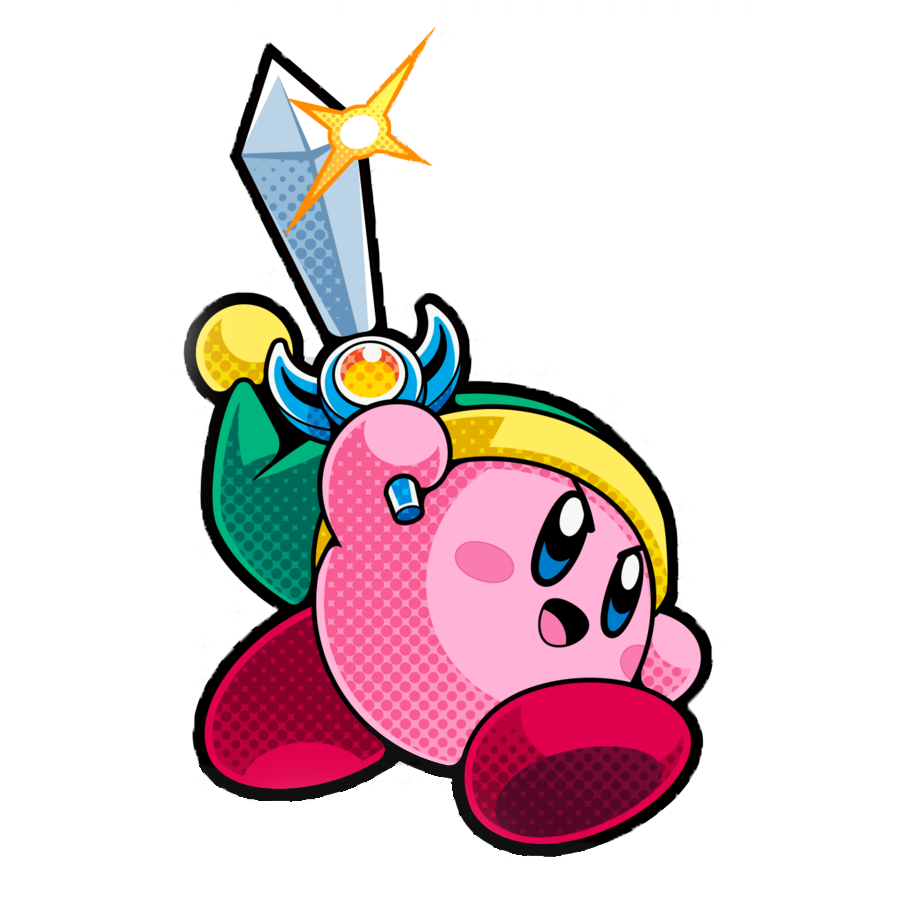
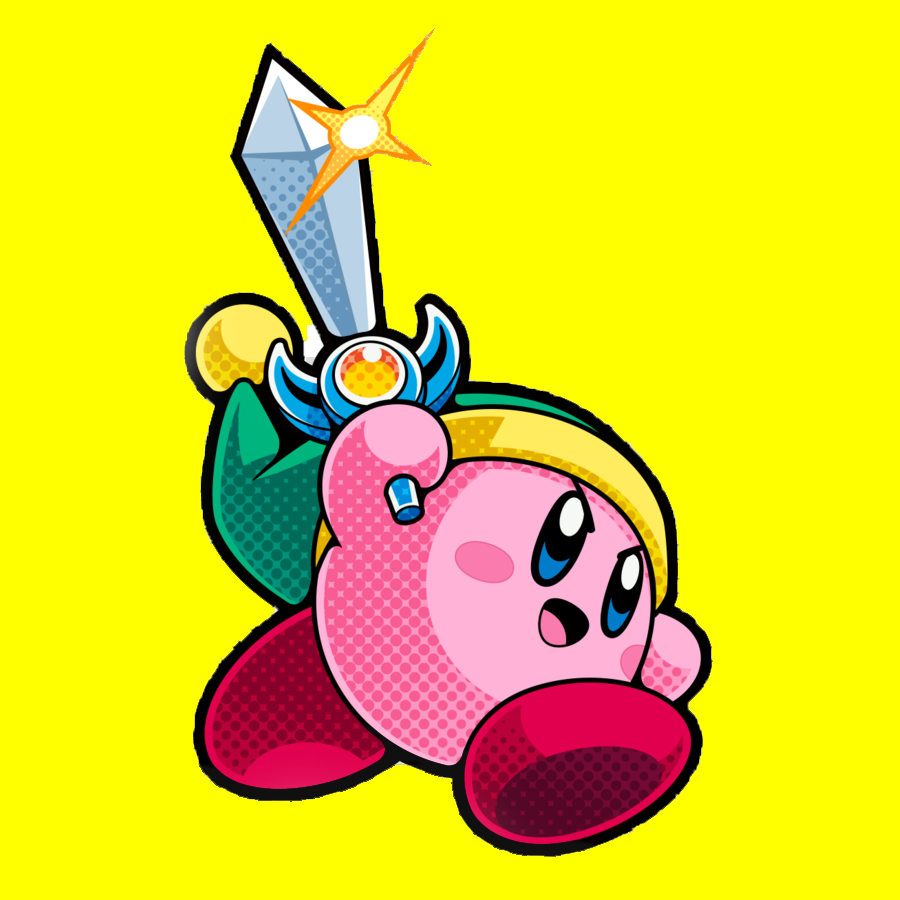
imagens de fundo andando adequadamente (só tem um bug da linha preta)

diff --git a/base_final.py b/base_final.py
@@ -39,13 +39,14 @@ class Player(pygame.sprite.Sprite):
         
         # Carregando a imagem de fundo
         player_img = pygame.image.load(path.join(img_dir, "kirby.png")).convert()
+    
         self.image = player_img
         
         # Diminuindo o tamanho da imagem.
         self.image = pygame.transform.scale(player_img, (100, 100))
         
         # Deixando transparente.
-        self.image.set_colorkey(black)
+        self.image.set_colorkey(YELLOW)
         
         # Detalhes sobre o posicionamento.
         self.rect = self.image.get_rect()
@@ -121,8 +122,7 @@ fundoX2 = fundo.get_width()
 cenario = pygame.image.load(path.join('Imagens','cenário_atual.png')).convert()
 cenario.set_colorkey(black)
 cenarioX = 0
-cenarioX2 = fundo.get_width()
-
+cenarioX2 = cenario.get_width()
 
 #Cria o Kirby
 player = Player()
@@ -165,11 +165,11 @@ while running:
     if fundoX2 < fundo.get_width() *-1:
         fundoX2 = fundo.get_width()
         
-    if cenarioX < fundo.get_width() *-1:  
-        cenarioX = fundo.get_width()
+    if cenarioX < cenario.get_width() *-1:  
+        cenarioX = cenario.get_width()
     
-    if cenarioX2 < fundo.get_width() *-1:
-        cenarioX2 = fundo.get_width()
+    if cenarioX2 < cenario.get_width() *-1:
+        cenarioX2 = cenario.get_width()
 
 
     clock.tick(speed) 

diff --git a/base_jogo_daniel.py b/base_jogo_daniel.py
@@ -39,13 +39,14 @@ class Player(pygame.sprite.Sprite):
         
         # Carregando a imagem de fundo
         player_img = pygame.image.load(path.join(img_dir, "kirby.png")).convert()
+    
         self.image = player_img
         
         # Diminuindo o tamanho da imagem.
         self.image = pygame.transform.scale(player_img, (100, 100))
         
         # Deixando transparente.
-        self.image.set_colorkey(black)
+        self.image.set_colorkey(YELLOW)
         
         # Detalhes sobre o posicionamento.
         self.rect = self.image.get_rect()
@@ -121,8 +122,7 @@ fundoX2 = fundo.get_width()
 cenario = pygame.image.load(path.join('Imagens','cenário_atual.png')).convert()
 cenario.set_colorkey(black)
 cenarioX = 0
-cenarioX2 = fundo.get_width()
-
+cenarioX2 = cenario.get_width()
 
 #Cria o Kirby
 player = Player()
@@ -165,11 +165,11 @@ while running:
     if fundoX2 < fundo.get_width() *-1:
         fundoX2 = fundo.get_width()
         
-    if cenarioX < fundo.get_width() *-1:  
-        cenarioX = fundo.get_width()
+    if cenarioX < cenario.get_width() *-1:  
+        cenarioX = cenario.get_width()
     
-    if cenarioX2 < fundo.get_width() *-1:
-        cenarioX2 = fundo.get_width()
+    if cenarioX2 < cenario.get_width() *-1:
+        cenarioX2 = cenario.get_width()
 
 
     clock.tick(speed) 
